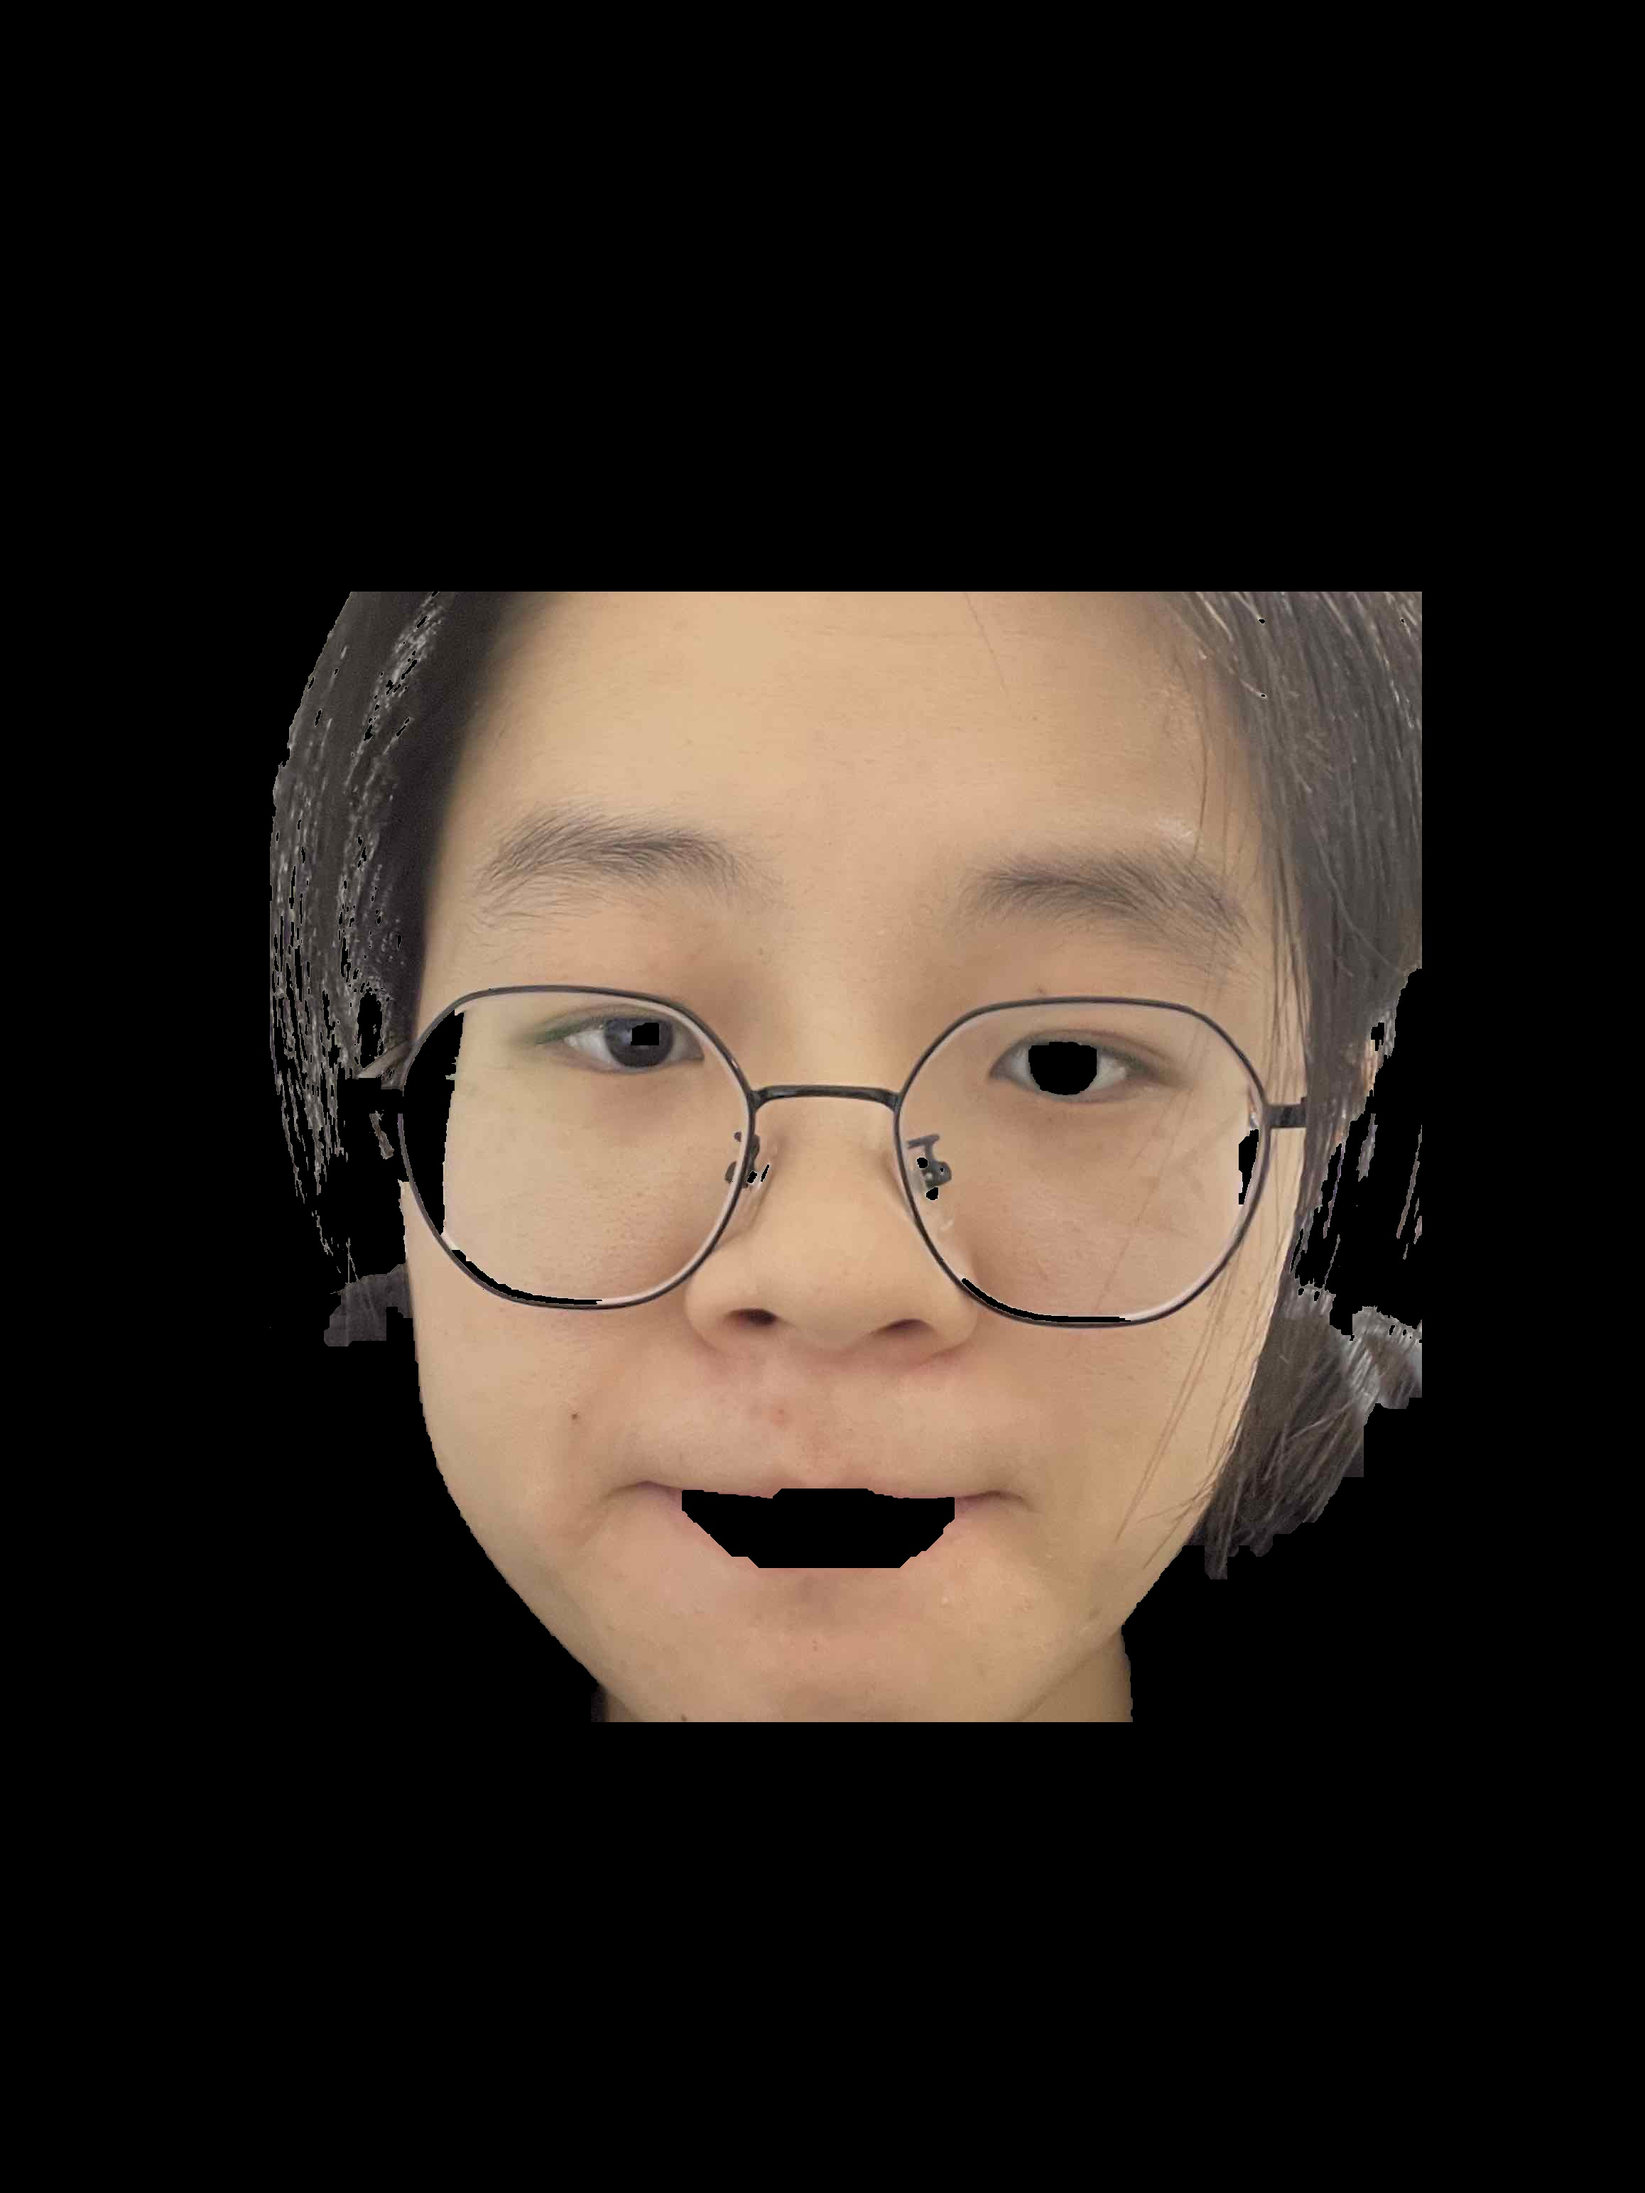
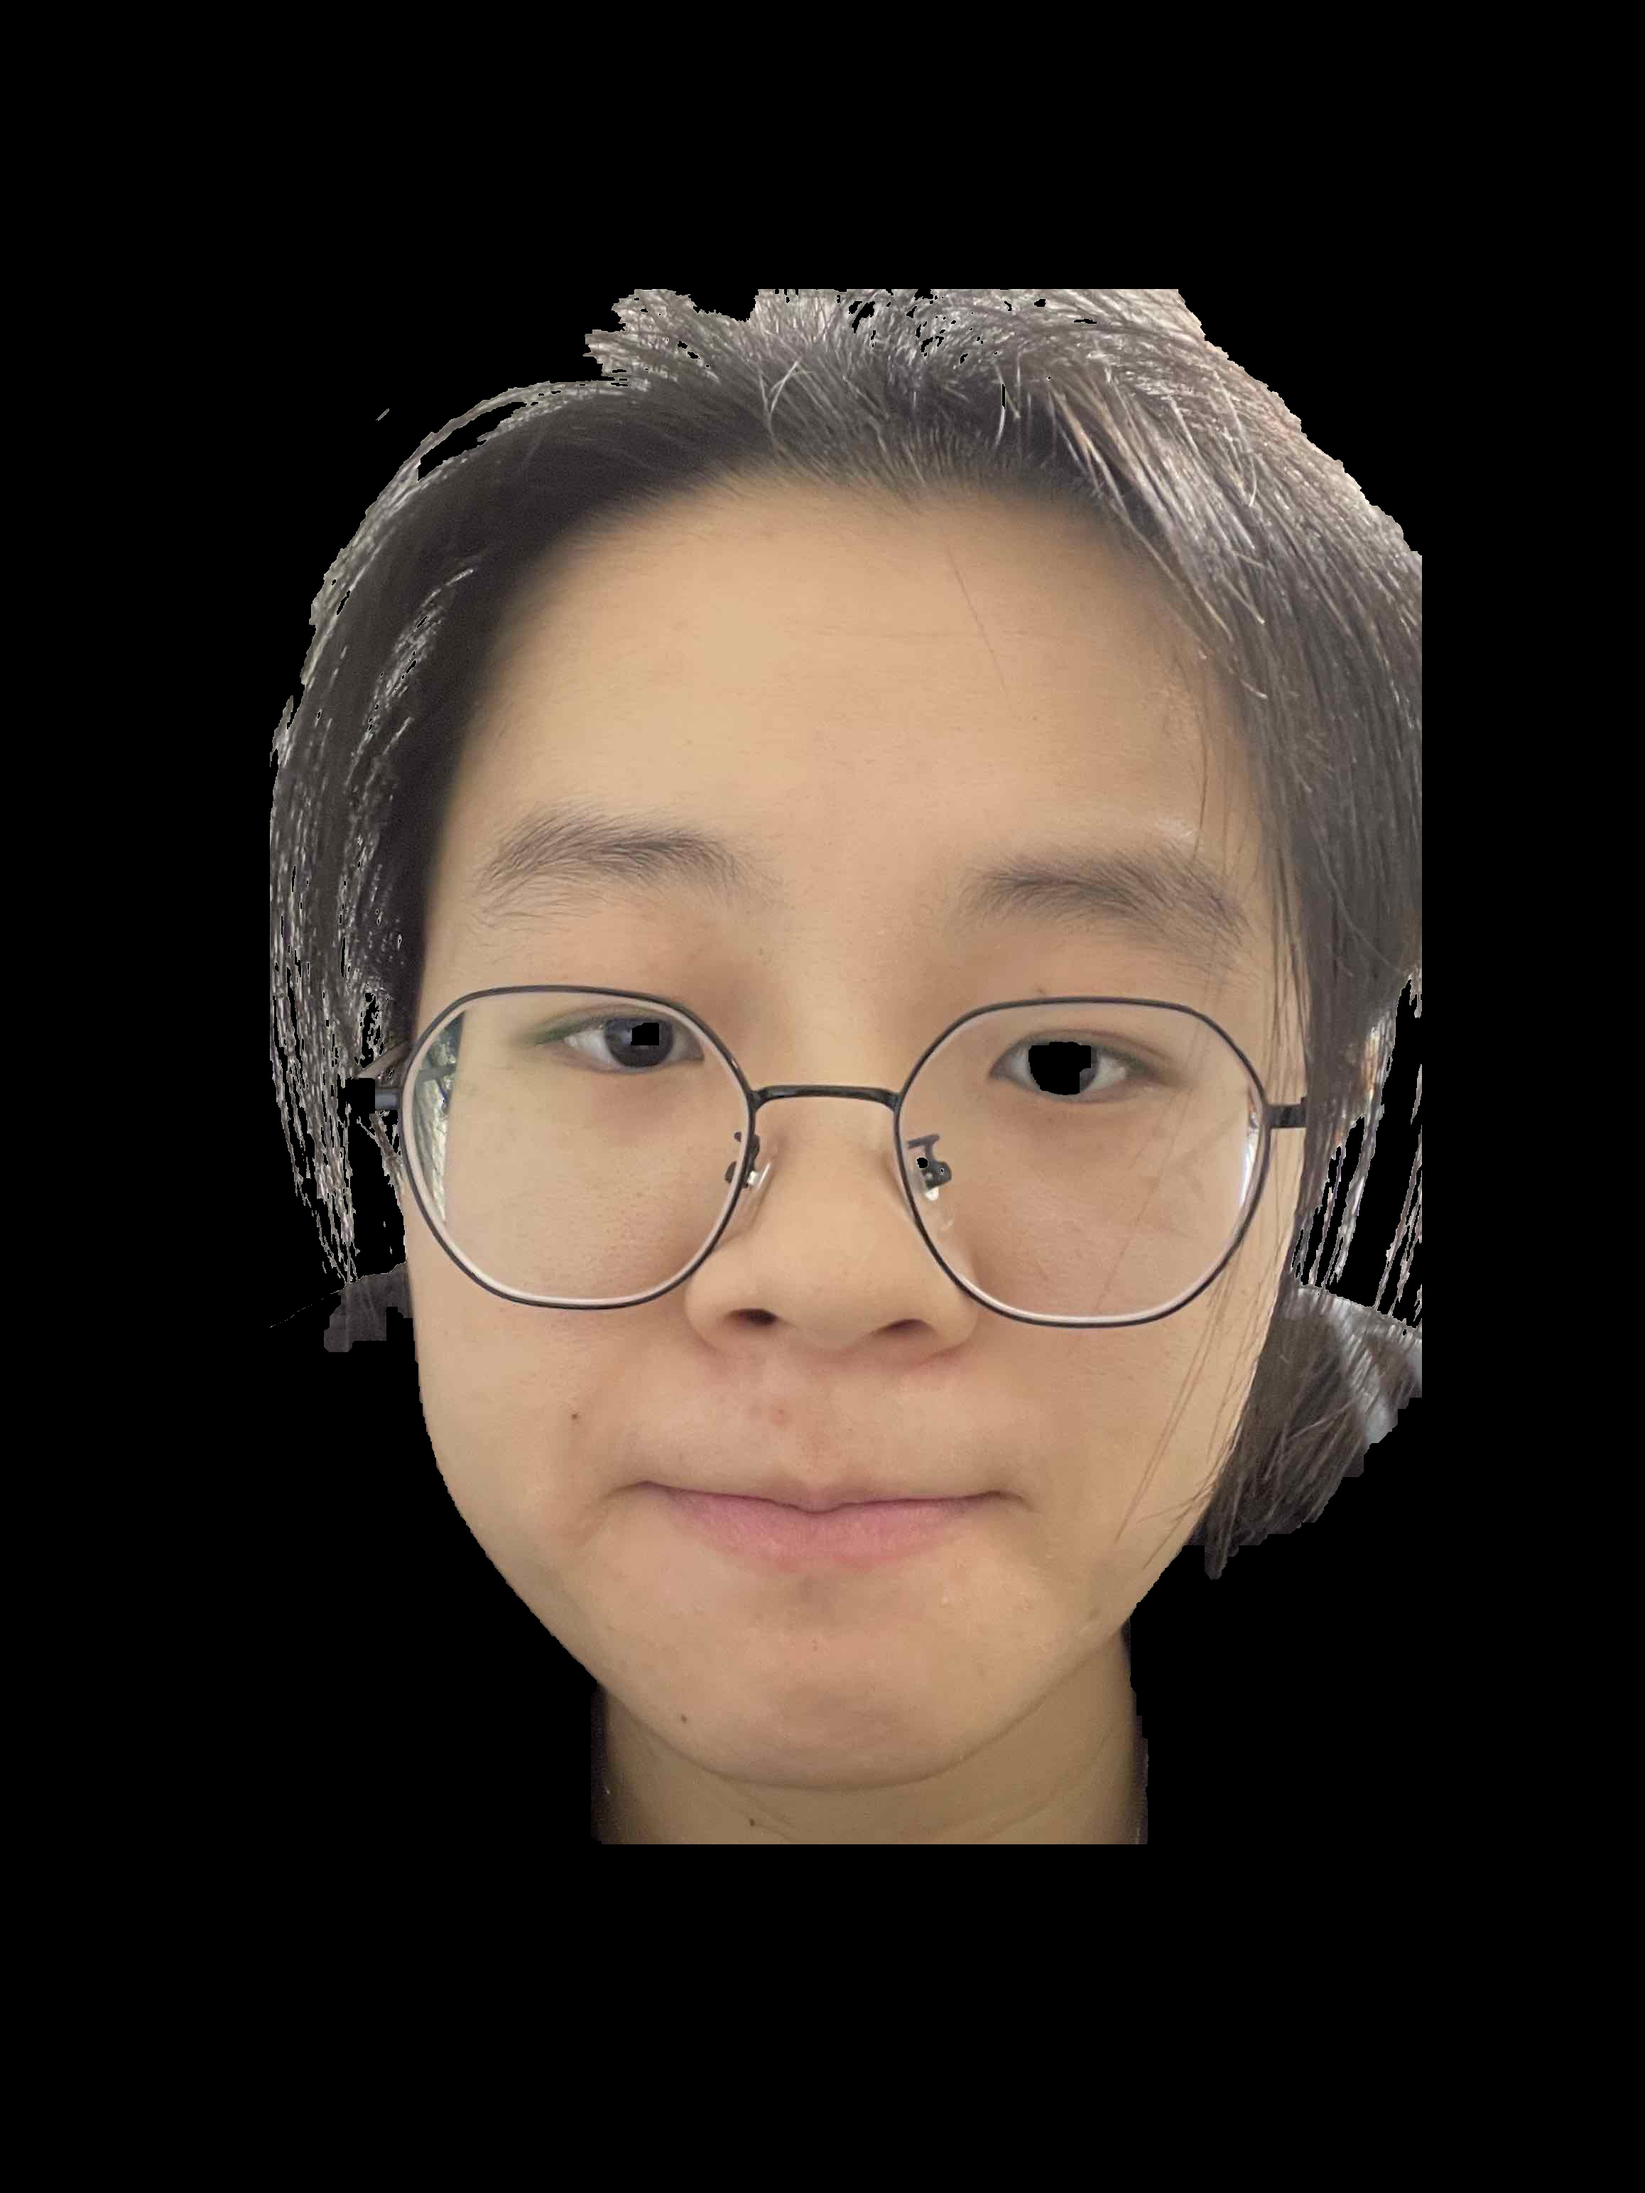
try to understand where we are with segmentation

diff --git a/rate_compute.py b/rate_compute.py
@@ -13,7 +13,8 @@ for j in range(50):
     #buffer.append(im)
     pass
 plt_all_freq=False
-plt_hr = True
+plt_hr = False
+plt_signals=True
 
 low_freq=0.75
 high_freq=4
@@ -22,6 +23,7 @@ high_freq=4
 
 
 times = []
+times_2=[i/25 for i in range(24)]
 hr_red = []
 hr_green = []
 hr_blue = []
@@ -83,7 +85,23 @@ def detect_change(buffer_object,Ts, counter_end):
     S_ = transformer.fit_transform(X_)
     #print("X_.shape", X_.shape)
     #print("S_.shape",S_.shape)
+    
+    if plt_signals:
+    #print('red_freq',red_freq)
 
+        times_2.pop(0)
+        times_2.append(counter_end*Ts)
+        #pdb.set_trace()
+        plt.clf()
+        plt.title("frequency")
+        plt.xlabel("x axis frequency")
+        plt.ylabel("t axis value")
+        plt.plot(times_2, S_[:,0], color="red")
+        plt.plot(times_2, S_[:,1], color = "green")
+        plt.plot(times_2, S_[:,2], color = "blue")
+        
+        plt.draw()
+        plt.pause(0.01)
 
     #pdb.set_trace()
 
@@ -154,7 +172,8 @@ def detect_change(buffer_object,Ts, counter_end):
         hr_blue.append(60*peak_blue)
         hr_mean.append(20*(peak_red+peak_blue+peak_green))
         
-        if(len(times)==101):
+        
+        if(len(times)==25):
             times.pop(0)
             hr_mean.pop(0)
             #compute the mean over 100 time steps
@@ -163,15 +182,16 @@ def detect_change(buffer_object,Ts, counter_end):
             hr_mean.append(heart_rate)
             print("hr_mean=",heart_rate)
         
-            #plt.clf()
-            #plt.title("heart rate")
-            #plt.xlabel("time")
-            #plt.ylabel("heart rate")
-            #plt.plot(times, hr_mean, color="red")
-        
+
+        plt.clf()
+        plt.title("heart rate of the green component")
+        plt.xlabel("time")
+        plt.ylabel("heart rate")
+        plt.plot(times, hr_green, color="green")
     
-            #plt.draw()
-            #plt.pause(0.01)
+
+        plt.draw()
+        plt.pause(0.01)
 
     print('heart rate red in bpm',peak_red*60)
     print('heart rate green in bpm',peak_green*60)

diff --git a/detector.py b/detector.py
@@ -23,23 +23,24 @@ def main(framerate = 20, scale=0.1):
     counter = 0
     while True:
         ret, frame = cap.read()
-        frame = cv2.resize(frame, None, fx=1, fy=1, interpolation=cv2.INTER_AREA)
+        #frame = cv2.resize(frame, None, fx=1, fy=1, interpolation=cv2.INTER_AREA)
+        
         #here detact the face
         #rotate the frame if necessary
         #frame = ndimage.rotate(frame, 180+90)
-        coordinates = face_detection.detact_and_draw_box(frame)
-        fr, forehead = face_detection.forehead_detection(frame, coordinates)
-        #fr, forehead = face_detection.face_segmentation(frame, coordinates)
-        #here manipulate the frame
-        #cut out the face here
-
-        if forehead.shape[0]==0:
+        coordinates = face_detection.detact_and_draw_box(frame, False)
+        #pdb.set_trace()
+        if np.array(coordinates).any()==0:
             continue
-
-        frame_buffer_object.append(forehead)
-        #how many frames do we want to pass?
-        #print("len(frame_buffer_object)=",len(frame_buffer_object))
-        if(len(frame_buffer_object)==(framerate)*5):
+        else:
+            #fr, forehead = face_detection.forehead_detection(frame, coordinates)
+            fr, forehead = face_detection.face_segmentation(frame, coordinates)
+            #here manipulate the frame
+            #cut out the face here
+            frame_buffer_object.append(forehead)
+            #how many frames do we want to pass?
+            #print("len(frame_buffer_object)=",len(frame_buffer_object))
+        if(len(frame_buffer_object)==(framerate)*30):
             #remove the first frame from the buffer
             #print("frame buffer object",len(frame_buffer_object))
             frame_buffer_object.pop(0)
@@ -68,4 +69,4 @@ def main(framerate = 20, scale=0.1):
     cv2.destroyAllWindows()
 
 
-main(framerate = 47, scale = 1.5)
+main(framerate = 1, scale = 1.5)

diff --git a/face_detection.py b/face_detection.py
@@ -10,7 +10,7 @@ face_cascade = cv2.CascadeClassifier('haarcascade_frontalface_default.xml')
 
 
 
-def detact_and_draw_box(frame):
+def detact_and_draw_box(frame, drawing):
     """
     Input: A frame 
     Output: The frame with bounding box on the face, only the largest one.
@@ -33,13 +33,14 @@ def detact_and_draw_box(frame):
     (x, y, w, h) = coords
 
     ########## This adaption is for graphcut
-    h = int(h*1.35)
-    y = int(y*0.5)
+    #h = int(h*1.35)
+    #y = int(y*0.5)
     #h=h-30
     #y=y+20
     ##############
     coords = (x, y, w, h)
-    cv2.rectangle(frame, (x, y), (x+w, y+h), (0, 255, 0), thickness=2)
+    if drawing==True:
+        cv2.rectangle(frame, (x, y), (x+w, y+h), (0, 255, 0), thickness=2)
     return coords
     
 
@@ -73,7 +74,12 @@ def face_segmentation(frame, coordinates):
     bgdModel = np.zeros((1,65),np.float64)
     fgdModel = np.zeros((1,65),np.float64)
     
-    rect = coordinates
+    rect = np.array(coordinates)
+
+    #this is necessary to augment the size of the bounding box in order to fill in the whole face in a 
+    #rectangle, that we can pass to the graph cut segmentation function.
+    rect[1] =int(0.5*rect[1])
+    rect[3] = int(rect[3]*1.6)
     print("rect=",rect)
     #pdb.set_trace()
     cv2.grabCut(frame,mask,rect,bgdModel,fgdModel,5,cv2.GC_INIT_WITH_RECT)
@@ -92,5 +98,5 @@ if __name__=="__main__":
     #pdb.set_trace()
     #fr, forehead = face_detection.forehead_detection(frame, coordinates)
     fr, graphcut_face = face_segmentation(frame, coordinates)
-    cv2.imwrite('./video/jingyi_cut.jpg', graphcut_face)
+    #cv2.imwrite('./video/jingyi_cut.jpg', graphcut_face)
     #cv2.imshow('graphcut_face',graphcut_face)
